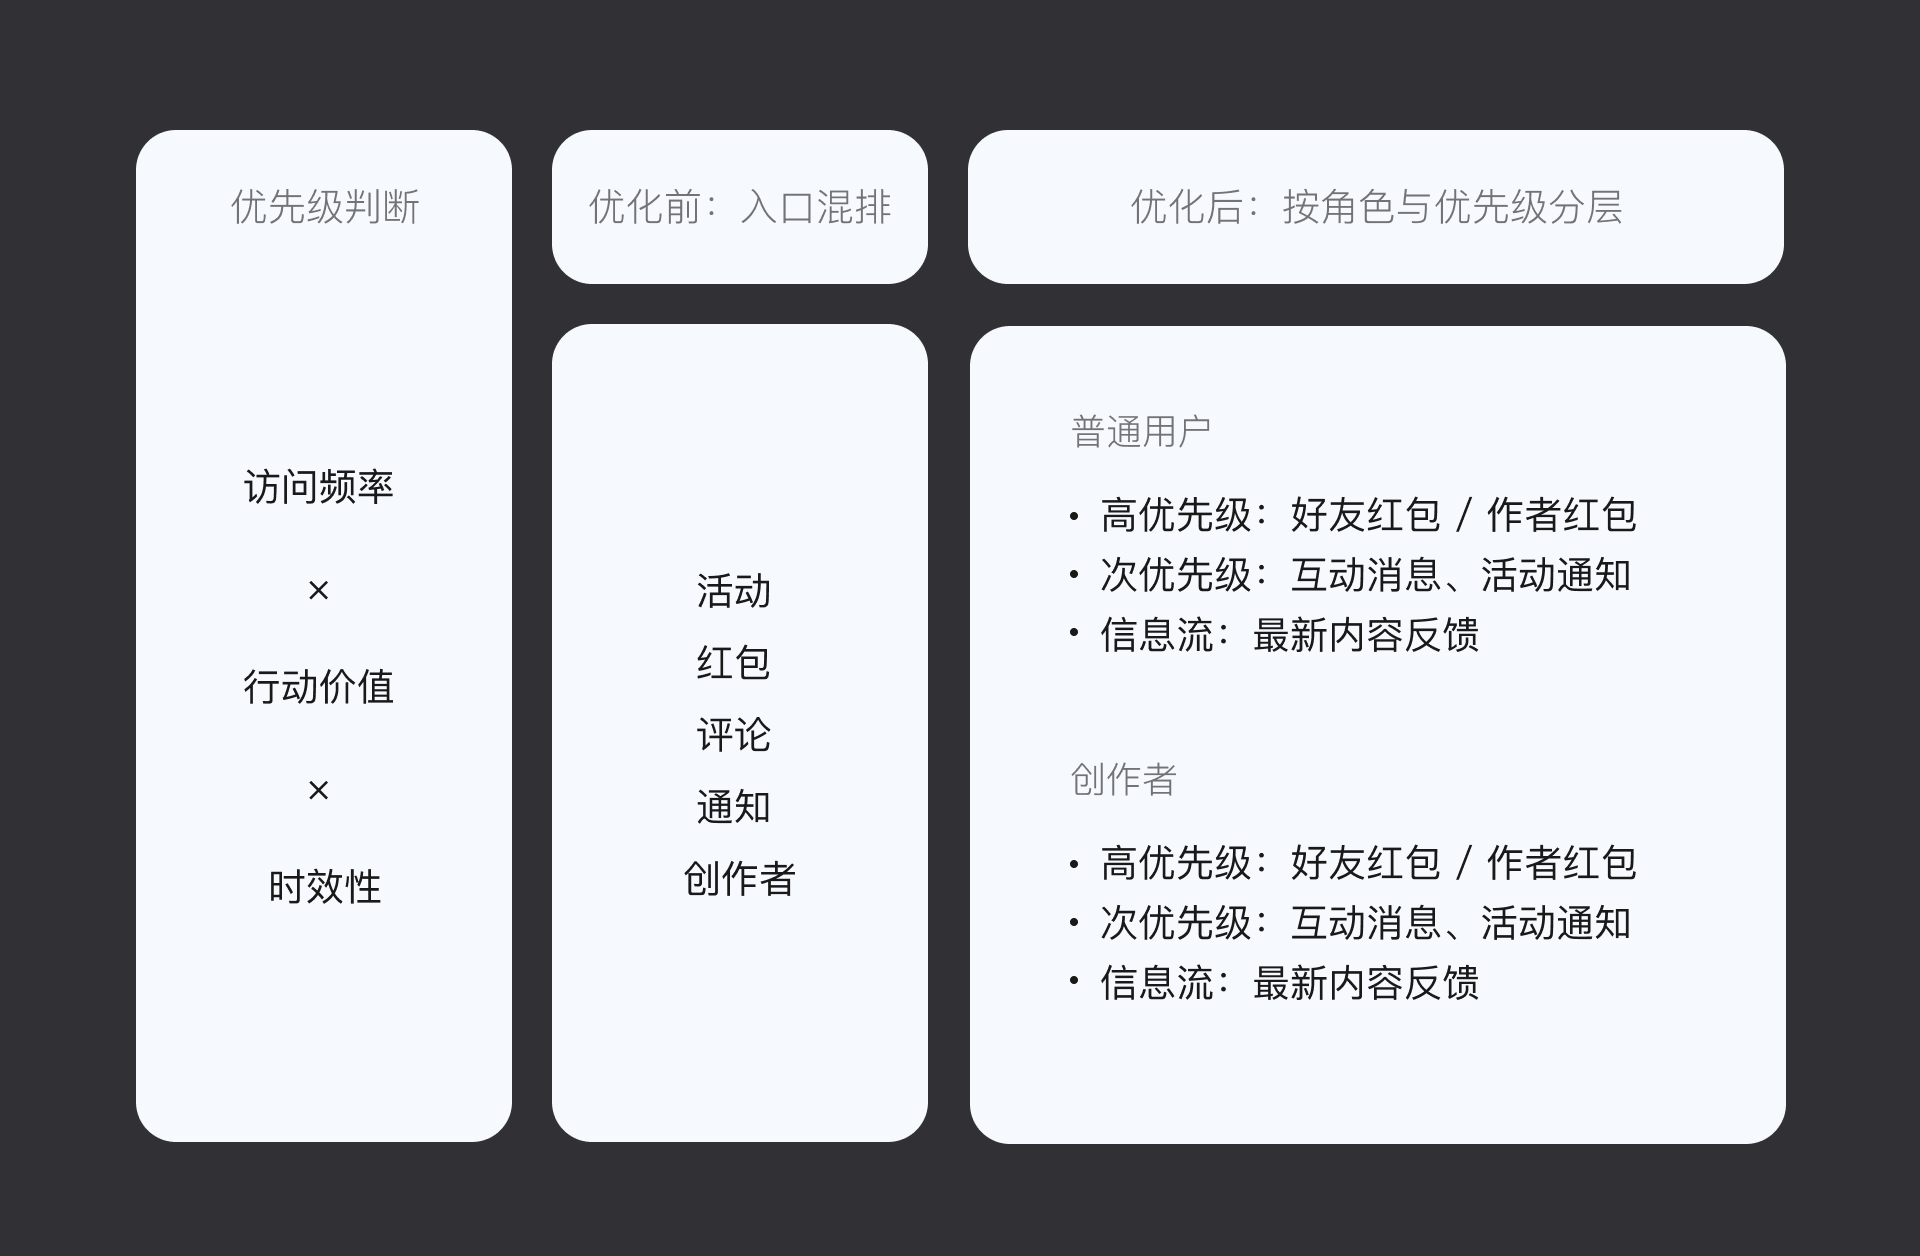
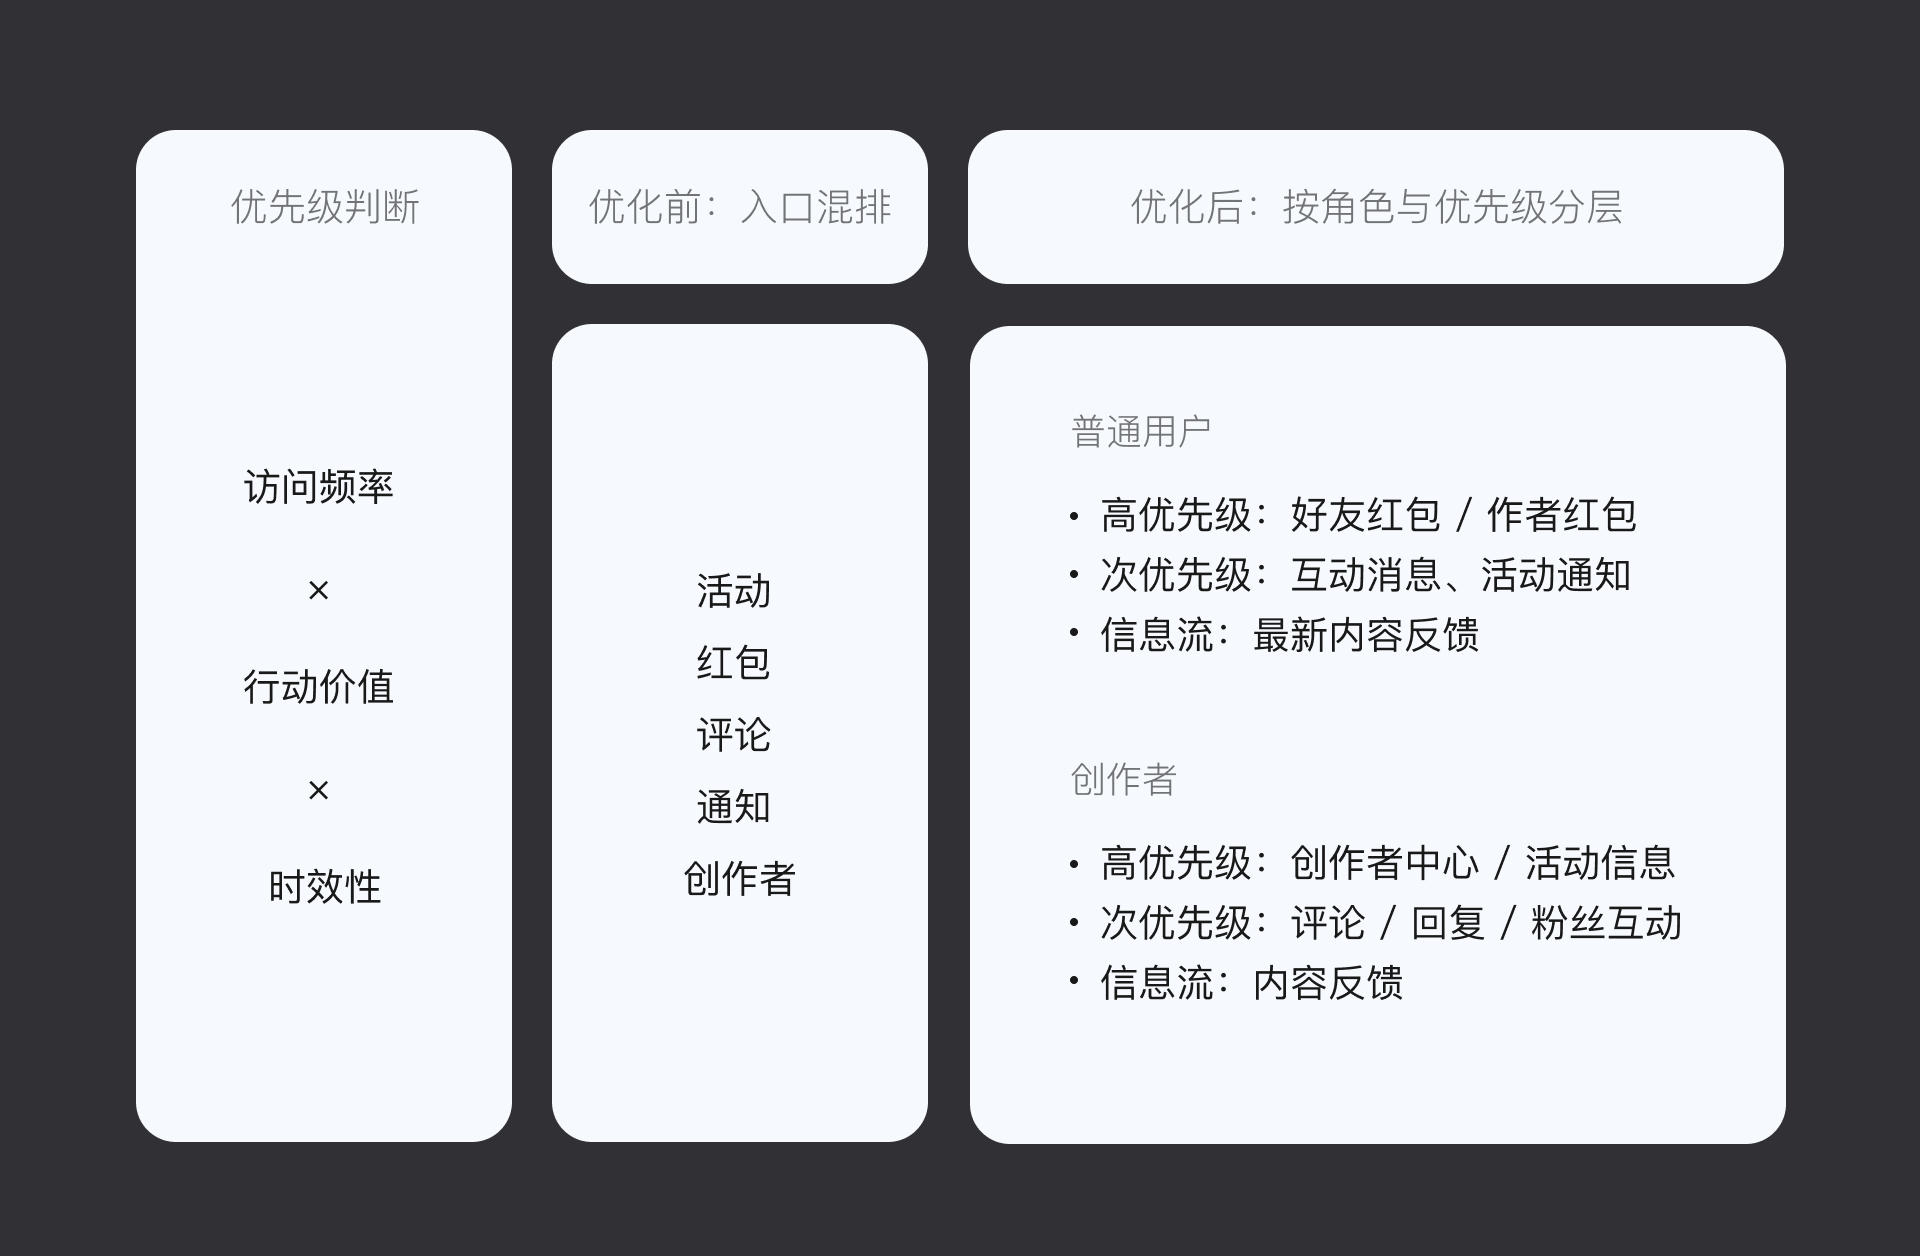
优化移动端体验并修正消息页内容

Changed region(s): [[0.6562, 0.6521, 0.875, 0.8073]]

diff --git a/src/App.jsx b/src/App.jsx
@@ -705,74 +705,14 @@ function DecodedImage({ src, alt = "", className = "", wrapperClassName = "", lo
 }
 
 function DownloadLink({ href, fileName, className = "", children, ariaLabel }) {
-  const [status, setStatus] = useState("idle");
-  const [feedbackVisible, setFeedbackVisible] = useState(false);
-  const feedbackTimerRef = useRef(null);
-  const statusTimerRef = useRef(null);
-
-  useEffect(() => () => {
-    window.clearTimeout(feedbackTimerRef.current);
-    window.clearTimeout(statusTimerRef.current);
-  }, []);
-
-  function showFeedbackFor(duration = 3000) {
-    window.clearTimeout(feedbackTimerRef.current);
-    setFeedbackVisible(true);
-    feedbackTimerRef.current = window.setTimeout(() => setFeedbackVisible(false), duration);
-  }
-
-  async function handleDownload(event) {
-    event.preventDefault();
-    if (status === "loading") {
-      showFeedbackFor();
-      return;
-    }
-    setStatus("loading");
-    showFeedbackFor();
-
-    try {
-      const response = await fetch(assetUrl(href));
-      if (!response.ok) throw new Error(`Download failed: ${response.status}`);
-      const blob = await response.blob();
-      const objectUrl = URL.createObjectURL(blob);
-      const link = document.createElement("a");
-      link.href = objectUrl;
-      link.download = fileName;
-      document.body.appendChild(link);
-      link.click();
-      link.remove();
-      window.setTimeout(() => URL.revokeObjectURL(objectUrl), 1000);
-      setStatus("success");
-      showFeedbackFor(2600);
-    } catch {
-      setStatus("error");
-      showFeedbackFor(2600);
-    }
-
-    window.clearTimeout(statusTimerRef.current);
-    statusTimerRef.current = window.setTimeout(() => setStatus("idle"), 2600);
-  }
-
-  const resourceLabel = fileName.includes("作品集") ? "作品集" : "简历";
-  const feedback = status === "loading"
-    ? `${resourceLabel}正在准备，完成后将自动下载`
-    : status === "success"
-      ? "下载已开始"
-      : status === "error"
-        ? "文件加载失败，请稍后重试"
-        : "";
-
   return (
     <a
       className={className}
       href={assetUrl(href)}
       download={fileName}
-      onClick={handleDownload}
       aria-label={ariaLabel}
-      aria-busy={status === "loading"}
     >
       {children}
-      {feedback && feedbackVisible ? <span className={`download-feedback is-${status}`} role="status">{feedback}</span> : null}
     </a>
   );
 }
@@ -1123,6 +1063,9 @@ function Detail({ project, previousProject, nextProject, transitioning, onClose,
   const lightboxCloseRef = useRef(null);
   const lightboxImageRef = useRef(null);
   const lightboxDragRef = useRef(null);
+  const lightboxPointersRef = useRef(new Map());
+  const lightboxPinchRef = useRef(null);
+  const lightboxViewRef = useRef({ scale: 1, x: 0, y: 0 });
   const lastImageTriggerRef = useRef(null);
   const [showBackTop, setShowBackTop] = useState(false);
   const [activeImageIndex, setActiveImageIndex] = useState(null);
@@ -1160,8 +1103,11 @@ function Detail({ project, previousProject, nextProject, transitioning, onClose,
     if (!lightbox) return;
 
     setLightboxView({ scale: 1, x: 0, y: 0 });
+    lightboxViewRef.current = { scale: 1, x: 0, y: 0 };
     setIsDraggingLightbox(false);
     lightboxDragRef.current = null;
+    lightboxPointersRef.current.clear();
+    lightboxPinchRef.current = null;
 
     if (activeImageIndex !== null && !lightbox.open) {
       lightbox.showModal();
@@ -1208,7 +1154,11 @@ function Detail({ project, previousProject, nextProject, transitioning, onClose,
     setLightboxView((current) => {
       const nextScale = Math.min(4, Math.max(1, current.scale * Math.exp(-event.deltaY * 0.0015)));
       if (Math.abs(nextScale - current.scale) < 0.001) return current;
-      if (nextScale === 1) return { scale: 1, x: 0, y: 0 };
+      if (nextScale === 1) {
+        const resetView = { scale: 1, x: 0, y: 0 };
+        lightboxViewRef.current = resetView;
+        return resetView;
+      }
 
       const baseCenterX = rect.left + rect.width / 2 - current.x;
       const baseCenterY = rect.top + rect.height / 2 - current.y;
@@ -1220,42 +1170,114 @@ function Detail({ project, previousProject, nextProject, transitioning, onClose,
         nextScale,
       );
 
-      return { scale: nextScale, ...pan };
+      const nextView = { scale: nextScale, ...pan };
+      lightboxViewRef.current = nextView;
+      return nextView;
     });
   }
 
   function startLightboxDrag(event) {
-    if (lightboxView.scale <= 1) return;
     event.preventDefault();
     event.currentTarget.setPointerCapture(event.pointerId);
+    lightboxPointersRef.current.set(event.pointerId, { x: event.clientX, y: event.clientY });
+
+    if (lightboxPointersRef.current.size >= 2) {
+      const image = lightboxImageRef.current;
+      const [first, second] = [...lightboxPointersRef.current.values()];
+      const view = lightboxViewRef.current;
+      if (!image || !first || !second) return;
+
+      const midpoint = {
+        x: (first.x + second.x) / 2,
+        y: (first.y + second.y) / 2,
+      };
+      const rect = image.getBoundingClientRect();
+      const baseCenterX = rect.left + rect.width / 2 - view.x;
+      const baseCenterY = rect.top + rect.height / 2 - view.y;
+      lightboxPinchRef.current = {
+        distance: Math.hypot(second.x - first.x, second.y - first.y) || 1,
+        scale: view.scale,
+        baseCenterX,
+        baseCenterY,
+        localX: (midpoint.x - baseCenterX - view.x) / view.scale,
+        localY: (midpoint.y - baseCenterY - view.y) / view.scale,
+      };
+      lightboxDragRef.current = null;
+      setIsDraggingLightbox(false);
+      return;
+    }
+
+    const view = lightboxViewRef.current;
+    if (view.scale <= 1) return;
     lightboxDragRef.current = {
       pointerId: event.pointerId,
       startX: event.clientX,
       startY: event.clientY,
-      originX: lightboxView.x,
-      originY: lightboxView.y,
+      originX: view.x,
+      originY: view.y,
     };
     setIsDraggingLightbox(true);
   }
 
   function moveLightboxDrag(event) {
+    if (!lightboxPointersRef.current.has(event.pointerId)) return;
+    lightboxPointersRef.current.set(event.pointerId, { x: event.clientX, y: event.clientY });
+
+    const pinch = lightboxPinchRef.current;
+    if (pinch && lightboxPointersRef.current.size >= 2) {
+      event.preventDefault();
+      const [first, second] = [...lightboxPointersRef.current.values()];
+      const midpoint = {
+        x: (first.x + second.x) / 2,
+        y: (first.y + second.y) / 2,
+      };
+      const distance = Math.hypot(second.x - first.x, second.y - first.y);
+      const nextScale = Math.min(4, Math.max(1, pinch.scale * distance / pinch.distance));
+      const pan = nextScale === 1 ? { x: 0, y: 0 } : clampLightboxPan(
+        midpoint.x - pinch.baseCenterX - nextScale * pinch.localX,
+        midpoint.y - pinch.baseCenterY - nextScale * pinch.localY,
+        nextScale,
+      );
+      const nextView = { scale: nextScale, ...pan };
+      lightboxViewRef.current = nextView;
+      setLightboxView(nextView);
+      return;
+    }
+
     const drag = lightboxDragRef.current;
     if (!drag || drag.pointerId !== event.pointerId) return;
     event.preventDefault();
     const pan = clampLightboxPan(
       drag.originX + event.clientX - drag.startX,
       drag.originY + event.clientY - drag.startY,
-      lightboxView.scale,
+      lightboxViewRef.current.scale,
     );
-    setLightboxView((current) => ({ ...current, ...pan }));
+    const nextView = { ...lightboxViewRef.current, ...pan };
+    lightboxViewRef.current = nextView;
+    setLightboxView(nextView);
   }
 
   function endLightboxDrag(event) {
-    const drag = lightboxDragRef.current;
-    if (!drag || drag.pointerId !== event.pointerId) return;
     if (event.currentTarget.hasPointerCapture(event.pointerId)) {
       event.currentTarget.releasePointerCapture(event.pointerId);
     }
+    lightboxPointersRef.current.delete(event.pointerId);
+    lightboxPinchRef.current = null;
+
+    const remainingPointer = [...lightboxPointersRef.current.entries()][0];
+    if (remainingPointer && lightboxViewRef.current.scale > 1) {
+      const [pointerId, point] = remainingPointer;
+      lightboxDragRef.current = {
+        pointerId,
+        startX: point.x,
+        startY: point.y,
+        originX: lightboxViewRef.current.x,
+        originY: lightboxViewRef.current.y,
+      };
+      setIsDraggingLightbox(true);
+      return;
+    }
+
     lightboxDragRef.current = null;
     setIsDraggingLightbox(false);
   }
@@ -1400,7 +1422,11 @@ function Detail({ project, previousProject, nextProject, transitioning, onClose,
               onPointerMove={moveLightboxDrag}
               onPointerUp={endLightboxDrag}
               onPointerCancel={endLightboxDrag}
-              onDoubleClick={() => setLightboxView({ scale: 1, x: 0, y: 0 })}
+              onDoubleClick={() => {
+                const resetView = { scale: 1, x: 0, y: 0 };
+                lightboxViewRef.current = resetView;
+                setLightboxView(resetView);
+              }}
               style={{ transform: `translate3d(${lightboxView.x}px, ${lightboxView.y}px, 0) scale(${lightboxView.scale})` }}
             />
             <button

diff --git a/src/styles.css b/src/styles.css
@@ -656,9 +656,9 @@ html[data-theme="dark"] .project-media { background: var(--image-surface); }
 @media (max-width: 640px) {
   :root { --shadow: 0 8px 24px rgba(41, 37, 31, 0.065), 0 1px 3px rgba(41, 37, 31, 0.025); --hover-shadow: var(--shadow); }
   html[data-theme="dark"] { --shadow: 0 8px 24px rgba(0, 0, 0, 0.2), 0 1px 3px rgba(0, 0, 0, 0.16); --hover-shadow: var(--shadow); }
-  .site-header { height: 70px; padding: 0 14px; grid-template-columns: 1fr auto 1fr; gap: 8px; background: var(--bg); backdrop-filter: none; -webkit-backdrop-filter: none; }
-  .mark { font-size: 17px; }
-  .filter-nav { width: 100%; overflow-x: auto; justify-content: flex-start; scrollbar-width: none; }
+  .site-header { height: 70px; padding: 0 12px; grid-template-columns: minmax(0, 1fr); background: transparent; border-top: 0; backdrop-filter: none; -webkit-backdrop-filter: none; pointer-events: none; }
+  .mark { display: none; }
+  .filter-nav { width: max-content; max-width: 100%; overflow-x: auto; justify-self: center; justify-content: flex-start; border: 1px solid var(--line); background: var(--floating); box-shadow: 0 8px 24px rgba(31,27,23,.12); backdrop-filter: blur(18px); -webkit-backdrop-filter: blur(18px); scrollbar-width: none; pointer-events: auto; }
   .filter-nav button { min-height: 34px; padding: 0 13px; white-space: nowrap; font-size: 13px; }
   .site-shell { width: min(100% - 24px, 520px); margin-top: 12px; }
   .bento-grid { grid-template-columns: 1fr; gap: 13px; }
@@ -697,12 +697,22 @@ html[data-theme="dark"] .project-media { background: var(--image-surface); }
   .detail-back-top { right: 16px; bottom: 16px; width: 46px; height: 46px; }
   .detail-hero { width: 100%; aspect-ratio: 1.08; border-radius: 24px; }
   .detail-intro { margin: 68px auto 78px; }
-  .detail-intro h1 { font-size: 32px; }
-  .detail-lead { font-size: 17px; }
+  .detail-index { font-size: 13px; }
+  .detail-intro h1 { font-size: 28px; }
+  .detail-lead { font-size: 15px; line-height: 1.75; }
   .detail-meta { grid-template-columns: 1fr; gap: 34px; }
+  .detail-meta span { font-size: 20px; }
+  .detail-meta strong { font-size: 15px; line-height: 1.7; }
   .stat-row { grid-template-columns: 1fr; gap: 10px; margin-top: 34px; }
   .stat-row div { min-height: 100px; }
+  .stat-row strong { font-size: 28px; }
+  .stat-row span { font-size: 15px; }
   .detail-sections { gap: 78px; }
+  .case-copy > span { font-size: 13px; }
+  .case-copy h2 { font-size: 21px; }
+  .case-copy p { font-size: 15px; line-height: 1.75; }
+  .case-points li { font-size: 14px; }
+  .case-link { font-size: 14px; }
   .case-section figure, .case-section figure img { min-height: 0; }
   .case-section figure { border-radius: 20px; }
   .case-images.is-phone-duo { padding: 28px; gap: 18px; border-radius: 28px; }
@@ -720,7 +730,8 @@ html[data-theme="dark"] .project-media { background: var(--image-surface); }
   .image-lightbox-nav.is-previous { left: max(12px, env(safe-area-inset-left)); }
   .image-lightbox-nav.is-next { right: max(12px, env(safe-area-inset-right)); }
   .image-lightbox-nav:not(:disabled):active { transform: scale(.94); }
-  .image-lightbox-caption { bottom: max(30px, calc(env(safe-area-inset-bottom) + 12px)); }
+  .image-lightbox-caption { width: calc(100vw - 152px); min-width: 0; bottom: max(32px, calc(env(safe-area-inset-bottom) + 14px)); display: grid; grid-template-columns: auto minmax(0, 1fr) auto; gap: 6px; font-size: 12px; }
+  .image-lightbox-caption strong { min-width: 0; overflow: hidden; text-overflow: ellipsis; white-space: nowrap; }
   .detail-footer { min-height: 0; margin-top: 84px; grid-template-columns: 1fr; gap: 12px; }
   .detail-close-snapshot { top: 82px; width: calc(100vw - 48px); }
   .detail-project-link { min-height: 112px; gap: 14px; padding: 20px; }

diff --git a/src/figmaContent.js b/src/figmaContent.js
@@ -221,7 +221,7 @@ export const figmaProjectContent = {
         eyebrow: "Strategy 02 / 按用户任务重组消息优先级",
         title: "消息页不是功能入口集合，而是帮助用户快速找到“此刻最需要处理的信息”",
         body: "通过角色识别和任务分层，让高频、高行动价值的信息优先被看见。",
-        points: ["优先级判断：访问频率 / 行动价值 / 时效性", "普通用户高优先级：好友红包 / 作者红包", "普通用户次优先级：互动消息、活动通知", "创作者高优先级：好友红包 / 作者红包", "信息流：最新内容反馈"],
+        points: ["优先级判断：访问频率 / 行动价值 / 时效性", "普通用户高优先级：好友红包 / 作者红包", "普通用户次优先级：互动消息 / 活动通知", "普通用户信息流：最新内容反馈", "创作者高优先级：创作者中心 / 活动信息", "创作者次优先级：评论 / 回复 / 粉丝互动", "创作者信息流：内容反馈"],
         image: "/assets/message-20260804-03-priority.png",
       },
       {
